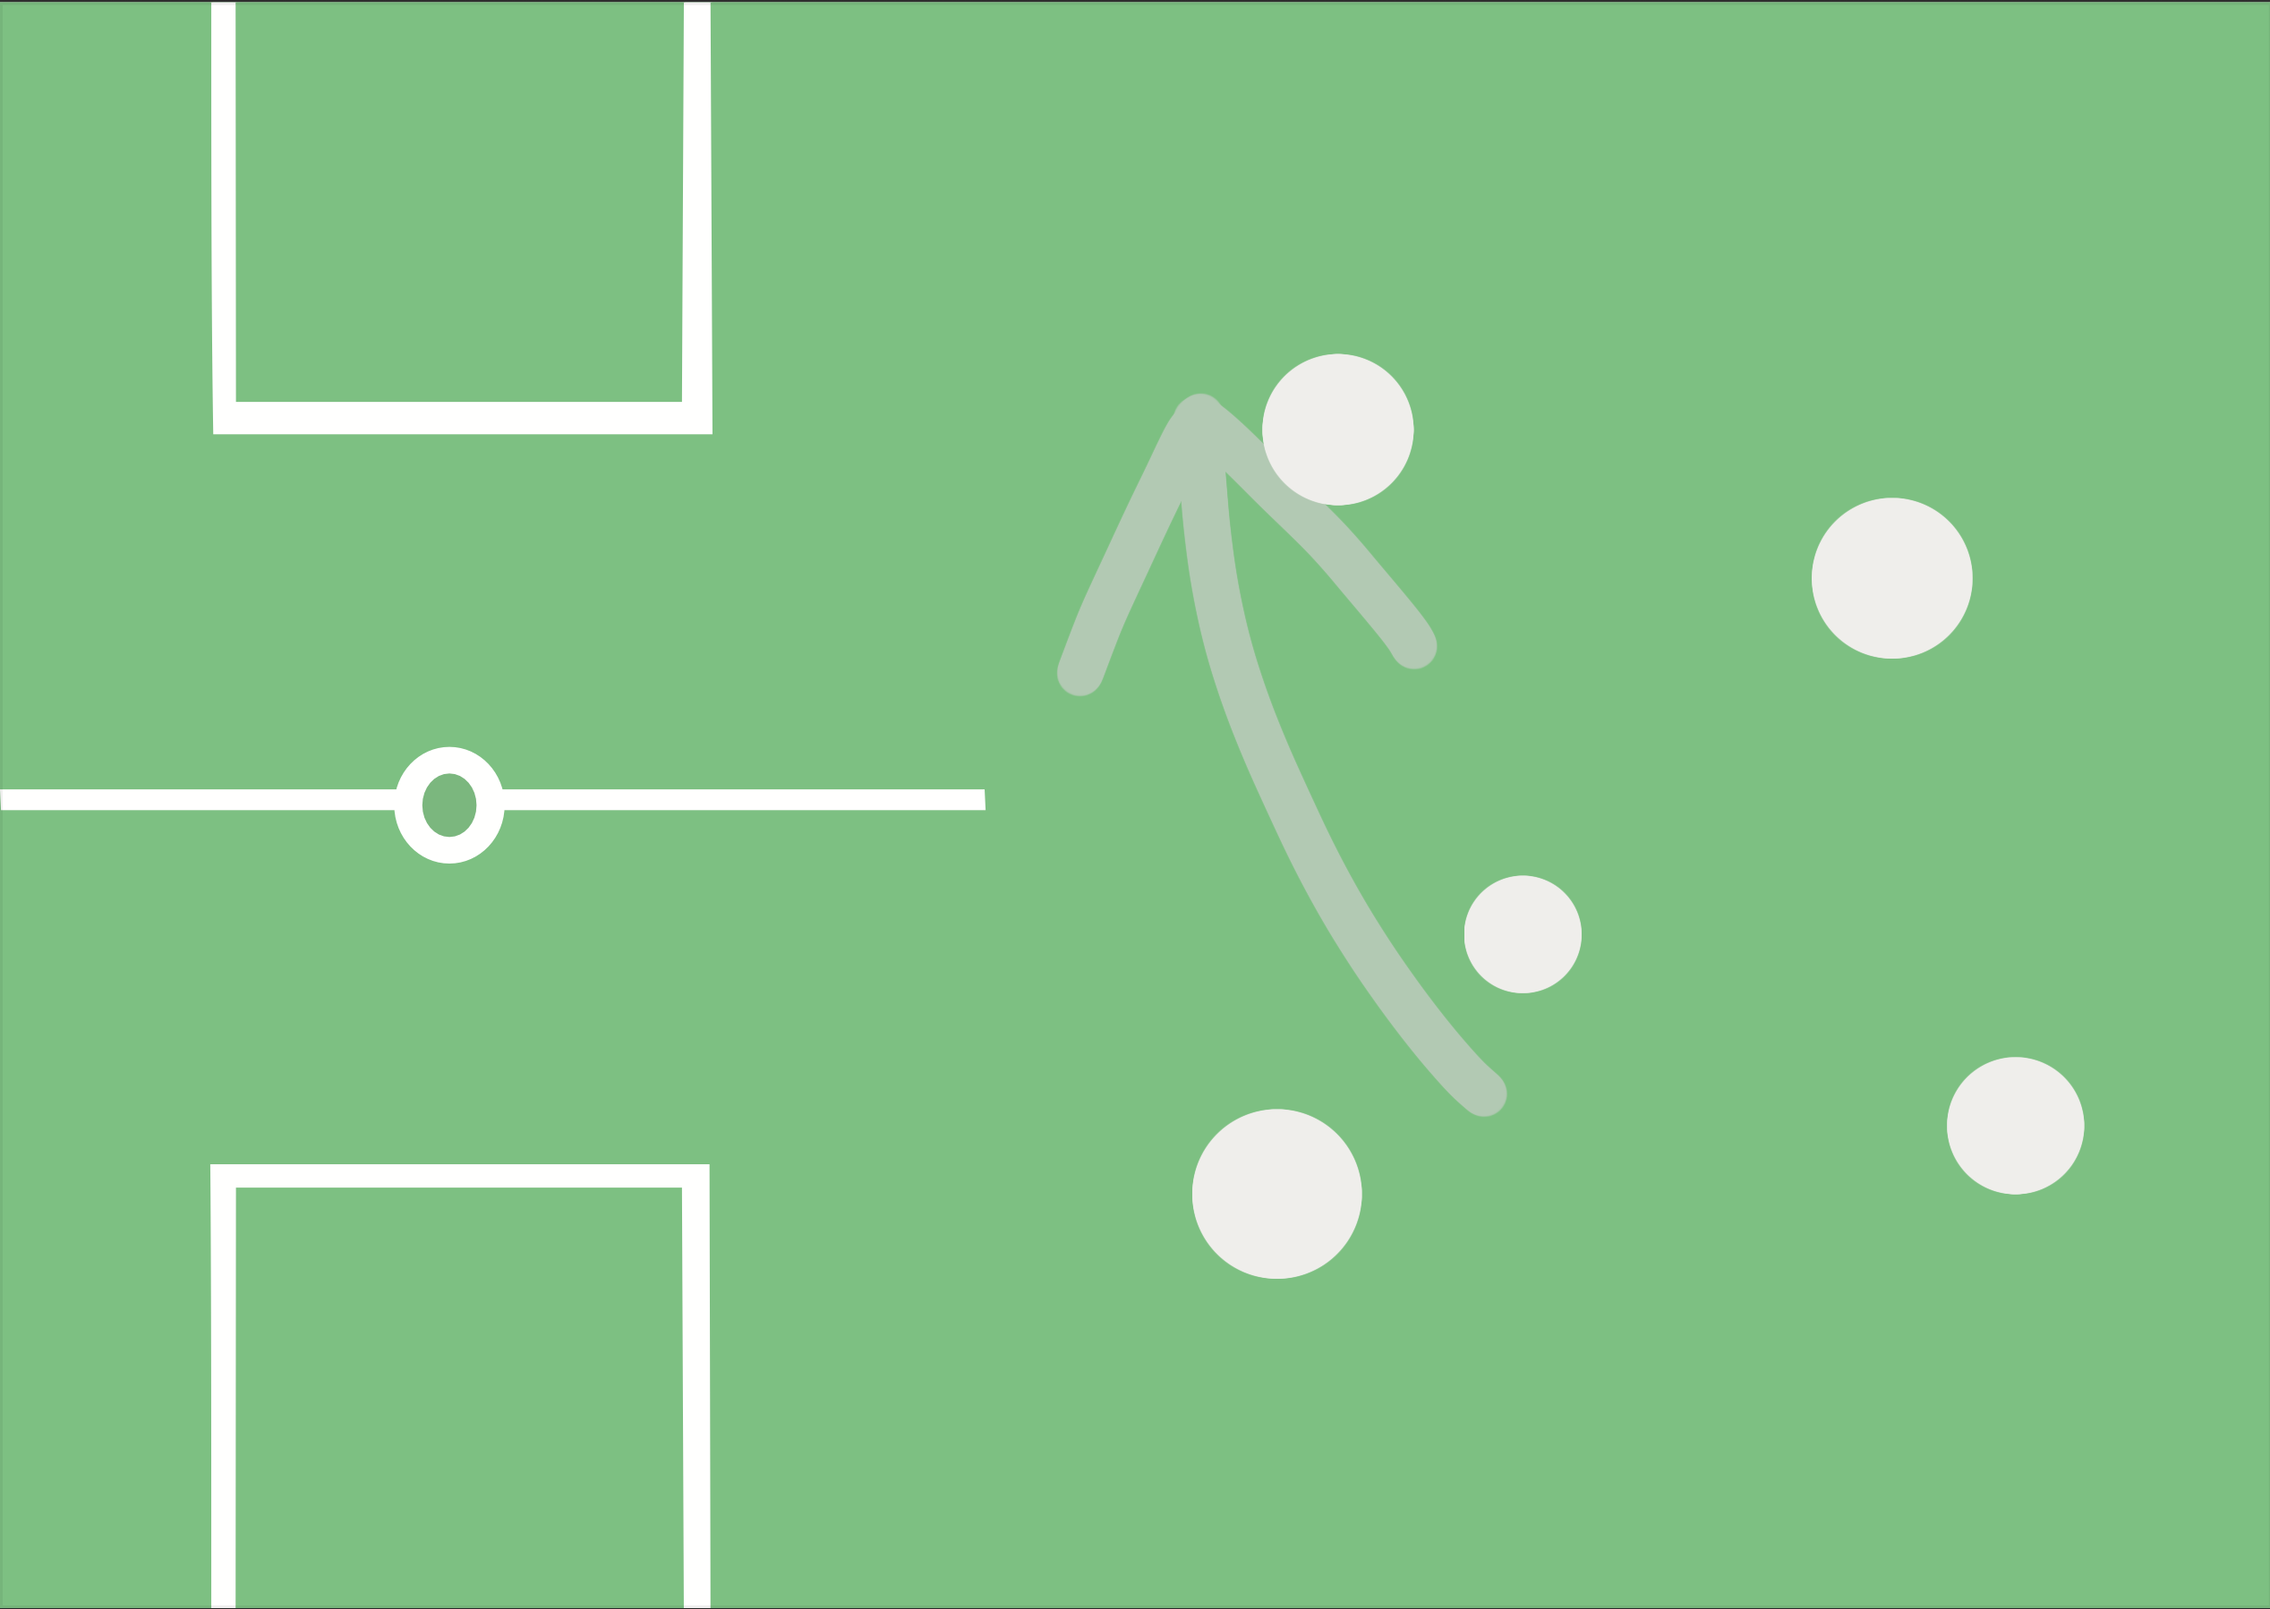
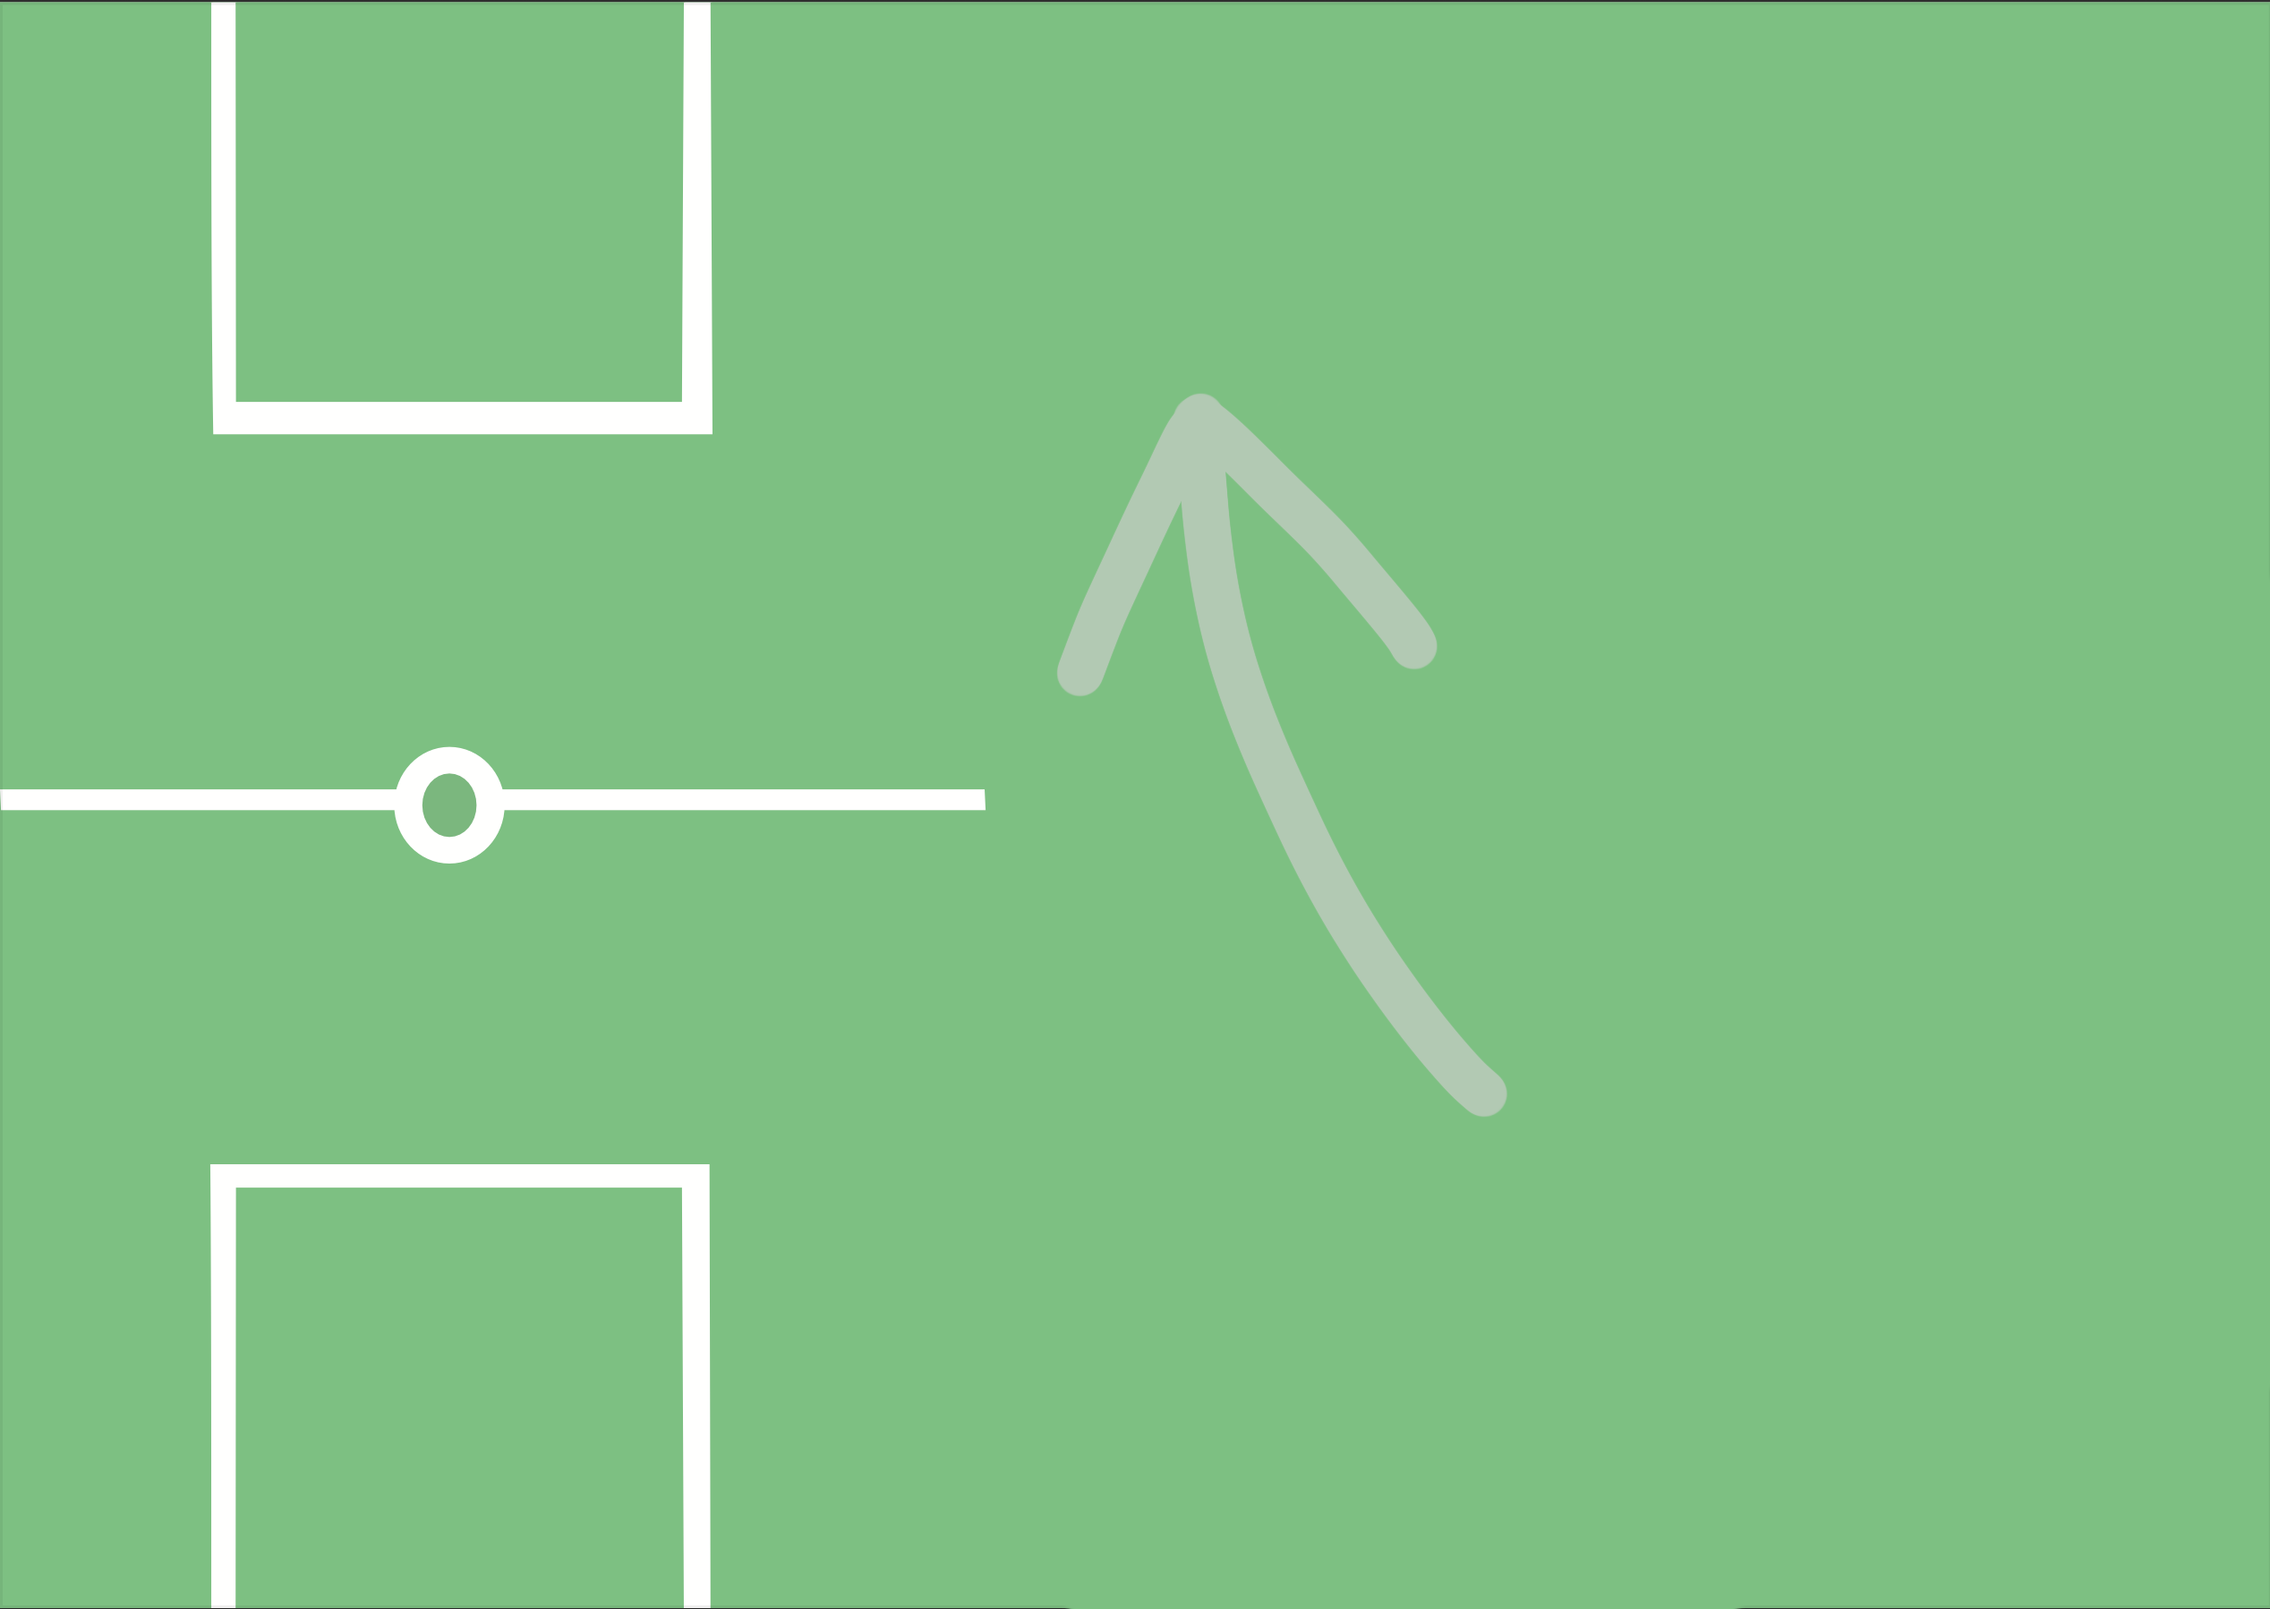
공 움직임 추가

diff --git a/app.js b/app.js
@@ -1,6 +1,6 @@
 // 전역 변수 생성
 let current_background = 0;
-let background = [], relative = [], main_character, teacher, placeholder, button, found_code = 0, found_phone = 0, found_key = 0, temp, safeHitbox;
+let background = [], main_character, teacher, placeholder, ball, button, found_code = 0, found_phone = 0, found_key = 0, temp, safeHitbox;
 const obstacle = [
     [
         {x1: 0.159, y1: 0.249, x2: 0.340, y2: 0.396},
@@ -39,31 +39,25 @@ const obstacle = [
         {x1: 0.605, y1: 0.816, x2: 0.719, y2: 0.921}
     ]
 ]; // [n번째 배경][m번째 장애물] = {x1: val, y1: val, x2: val, y2: val} 과 같이 배경-장애물 부분은 배열로, 왼쪽위-오른쪽아래 좌표는 dictionary로 저장
-
+var t1, t2;
 for (let i = 0; i < 9; i++){ // 배경 리스트 생성
     background[i] = document.getElementById(`background${i+1}`);
-    relative[i] = document.getElementById(`background-r${i+1}`);
 }
 main_character = document.getElementById('main_character'); // 케릭터 및 요소 불러오기
 teacher = document.getElementById('teacher');
-placeholder = document.getElementById('placeholder')
-button = document.getElementById('button')
+placeholder = document.getElementById('placeholder');
+ball = document.getElementById('ball');
+button = document.getElementById('button');
 function next_background(){ // 다음 배경 전환 함수
     temp = null;
     current_background++;
     for (let i = 0; i < 9; i++){ // 모든 배경 숨김
         background[i].style.display = 'none';
-        if (relative[i]){
-            relative[i].style.display = 'none';
-        }
     }
     if (background.length < current_background){
         current_background = 1;
     }
     background[current_background-1].style.display = 'flex'; // 현재 배경 표시
-    if (relative[current_background-1]){
-        relative[current_background-1].style.display = 'flex';
-    }
     reload_object();
 }
 async function mouse_event_handler(event) { // 마우스 이벤트 핸들러
@@ -133,9 +127,6 @@ async function mouse_event_handler(event) { // 마우스 이벤트 핸들러
                     document.getElementById('key').style.display = 'none';
                     for (let i = 0; i < 7; i++) {
                         background[i].style.display = 'none';
-                        if (relative[i]) {
-                            relative[i].style.display = 'none';
-                        }
                     }
                     died.style.display = 'flex';
                     await new Promise((resolve) => {
@@ -155,15 +146,19 @@ async function mouse_event_handler(event) { // 마우스 이벤트 핸들러
         case 5:
             if (0.83 < mouse_rel_x && 0.74 < mouse_rel_y && found_phone && found_key == 1){
                 next_background();
-                setInterval(move_teacher, 16);
+                t1 = setInterval(move_teacher, 16);
+                t2 = setInterval(move_ball, 16);
                 teacher.style.display = 'flex';
+                ball.style.display = 'flex';
             }
             break;
         case 6:
-            if (0.45 < mouse_rel_x && mouse_rel_x < 0.6 && mouse_rel_y < 0.1){
+            if (0.4 < mouse_rel_x && mouse_rel_x < 0.6 && mouse_rel_y < 0.1){
                 next_background();
-                clearInterval(move_teacher);
+                clearInterval(t1);
+                clearInterval(t2);
                 teacher.style.display = 'none';
+                ball.style.display = 'none';
             }
             break;
         case 7:
@@ -233,7 +228,6 @@ async function reload_object(char_rel = null) {
                     main_character.style.display = 'none';
                     placeholder.style.display = 'flex';
                     background[2].style.display = 'none';
-                    relative[2].style.display = 'none';
                     const chars = 'abcdefghijklmnopqrstuvwxyz'; // 문자 리스트
                     var password = '', answer = [];
                     for (let i = 0; i < 5; i++) { // 5글자 비밀번호 생성
@@ -270,7 +264,6 @@ async function reload_object(char_rel = null) {
                                 main_character.style.display = 'flex';
                                 computer_on.style.display = 'flex';
                                 background[2].style.display = 'flex';
-                                relative[2].style.display = 'flex';
                                 document.removeEventListener("click", handler);
 
                                 // 안전한 위치(컴퓨터가 있던 곳)로 캐릭터를 먼저 이동
@@ -432,9 +425,6 @@ async function checker(char_rel){
             document.getElementById('key').style.display = 'none';
             for (let i = 0; i < 7; i++) {
                 background[i].style.display = 'none';
-                if (relative[i]) {
-                    relative[i].style.display = 'none';
-                }
             }
             died.style.display = 'flex';
             await new Promise((resolve) => { // 죽으면
@@ -468,6 +458,26 @@ function move_teacher(){ // 운동장 배경에서 선생님 움직이는 함수
         teacherrect.left <= charrect.right &&
         teacherrect.bottom >= charrect.top &&
         teacherrect.top <= charrect.bottom
+    ){
+        console.log('died t');
+    }
+}
+
+function move_ball(){ // 운동장 배경에서 공 움직이는 함수
+    var rect = background[current_background - 1].getBoundingClientRect(); // 배경 크기 정보
+    var charrect = main_character.getBoundingClientRect();
+    var tx, nx;
+    x = parseInt(ball.style.left) || 0
+    nx = x + rect.width * 0.01;
+    if (nx < rect.left) nx = rect.left;
+    if (rect.right < nx) nx = rect.left;
+    ball.style.top = rect.top+(0.45*rect.height)+'px';
+    ball.style.left = nx+'px';
+    var ballrect = ball.getBoundingClientRect();
+    if (ballrect.right >= charrect.left &&
+        ballrect.left <= charrect.right &&
+        ballrect.bottom >= charrect.top &&
+        ballrect.top <= charrect.bottom
     ){
         console.log('died');
     }

diff --git a/index.html b/index.html
@@ -36,7 +36,8 @@
                 <img src="./asset/Phone.png" id="phone" class="object">
                 <img src="./asset/Lock.png" id="lock" class="object">
                 <img src="./asset/Key.png" style="display: none;" id="key" class="object">
-                <img src="./asset/Teacher.png" style="display: none;" id="teacher" class="object">
+                <img src="./asset/Teacher.png" id="teacher" class="object">
+                <img src="./asset/Ball.png" id="ball" class="object">
             </div>
         </div>
         <script src="./app.js"></script>

diff --git a/style.css b/style.css
@@ -102,3 +102,6 @@ p {
     z-index: 8;
     width: 12%;
 }
+#ball {
+    max-width: 40px;
+}
